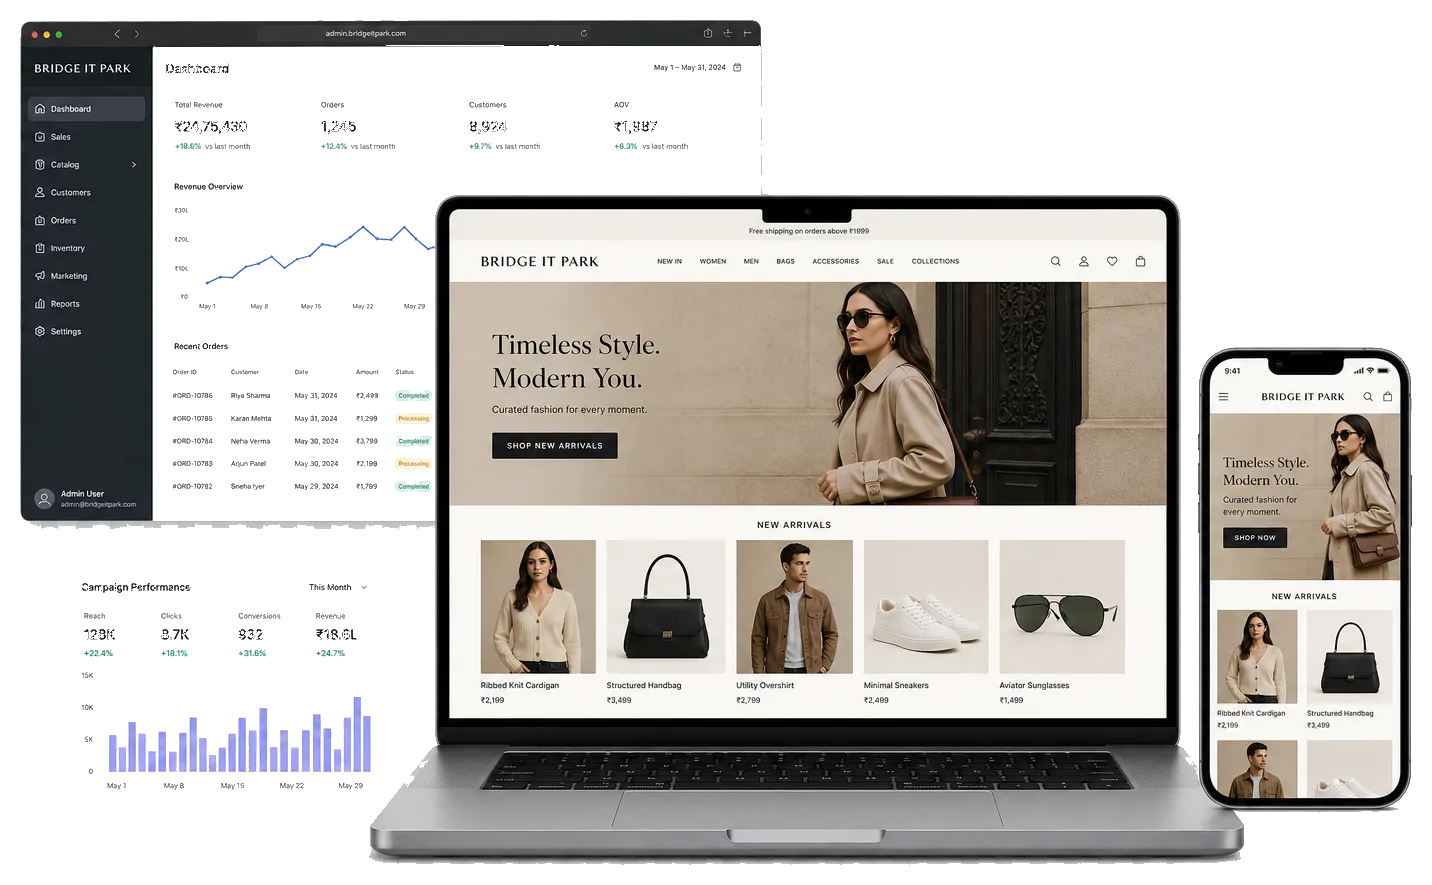
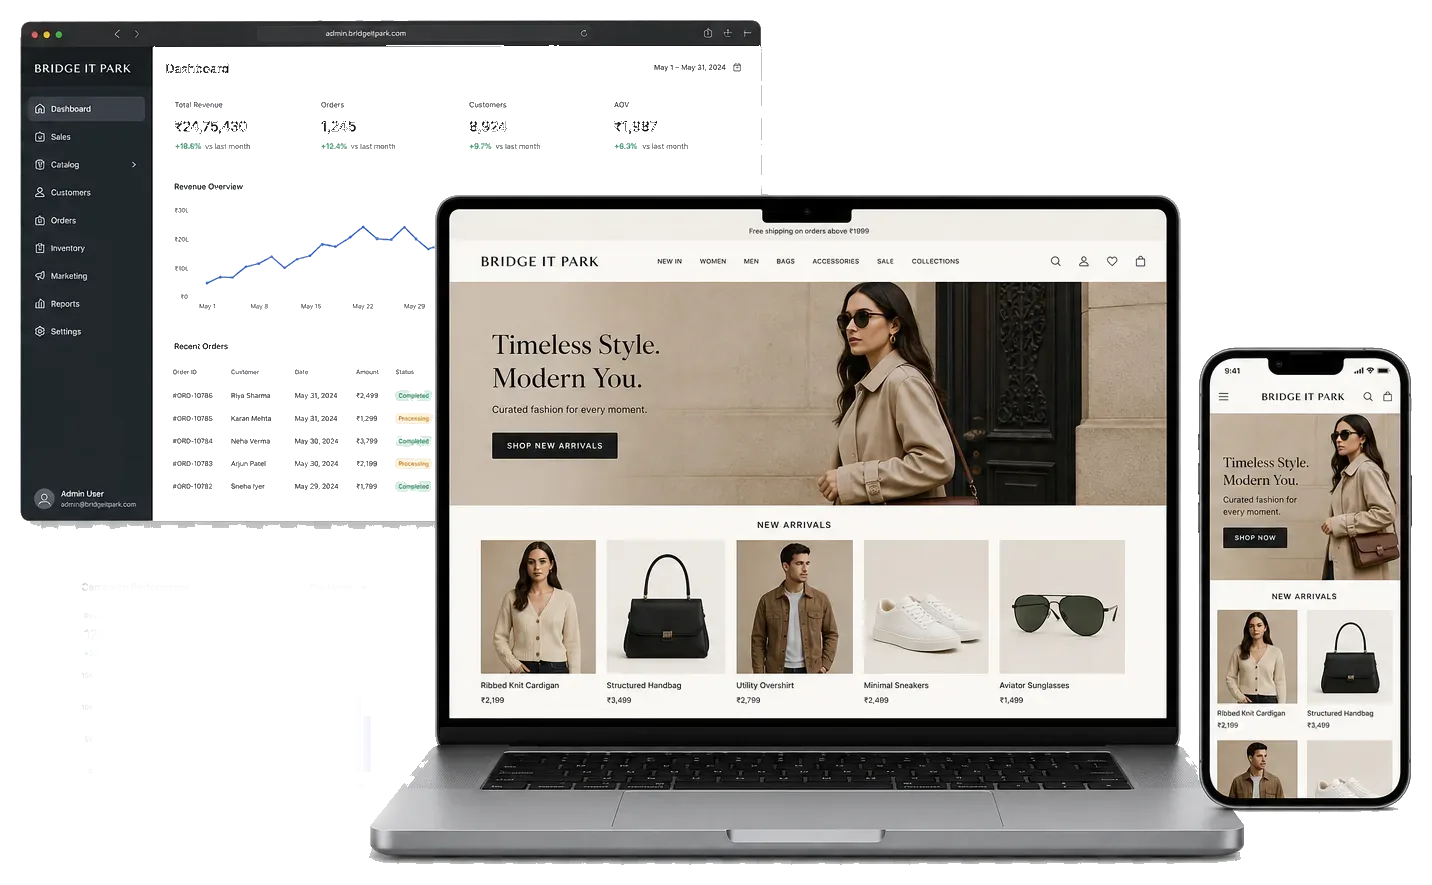
Update dark theme styles and enhance typography for improved accessibility
- Modified gradient backgrounds for dark theme elements in `globals.css` to ensure better contrast and visibility.
- Added new gradient styles for text elements in dark mode to enhance readability.
- Updated typography styles in `design-tokens.ts` to improve color contrast for headings and accents in dark mode.
- Adjusted `HeroContent.tsx` to apply dark theme text color for better visibility against dark backgrounds.
- Replaced the hero image with an updated version for improved visual appeal.

diff --git a/app/globals.css b/app/globals.css
@@ -309,15 +309,16 @@ body {
   background-clip: text;
 }
 
+/* Dark theme: darker ink → white so headings stay bright on dark hero */
 .dark .hero-solutions-wave {
   background-image: linear-gradient(
     90deg,
-    #93c5fd 0%,
-    #60a5fa 22%,
-    #38bdf8 48%,
-    #7dd3fc 68%,
-    #60a5fa 88%,
-    #93c5fd 100%
+    #1e3a8a 0%,
+    #1e40af 14%,
+    #334155 32%,
+    #94a3b8 52%,
+    #e2e8f0 72%,
+    #ffffff 100%
   );
 }
 
@@ -530,6 +531,13 @@ html[data-admin-route] body {
   background-clip: text;
 }
 
+.dark .gradient-text {
+  background: linear-gradient(135deg, #1e3a8a 0%, #64748b 45%, #f8fafc 78%, #ffffff 100%);
+  -webkit-background-clip: text;
+  -webkit-text-fill-color: transparent;
+  background-clip: text;
+}
+
 .gradient-text-gold {
   background: linear-gradient(135deg, #F59E0B, #FF6B6B, #EC4899);
   -webkit-background-clip: text;
@@ -537,8 +545,22 @@ html[data-admin-route] body {
   background-clip: text;
 }
 
+.dark .gradient-text-gold {
+  background: linear-gradient(135deg, #78350f 0%, #a8a29e 40%, #f5f5f4 75%, #ffffff 100%);
+  -webkit-background-clip: text;
+  -webkit-text-fill-color: transparent;
+  background-clip: text;
+}
+
 .gradient-text-warm {
   background: linear-gradient(135deg, #FF6B6B, #F59E0B, #EC4899);
+  -webkit-background-clip: text;
+  -webkit-text-fill-color: transparent;
+  background-clip: text;
+}
+
+.dark .gradient-text-warm {
+  background: linear-gradient(135deg, #7f1d1d 0%, #78716c 42%, #fafaf9 78%, #ffffff 100%);
   -webkit-background-clip: text;
   -webkit-text-fill-color: transparent;
   background-clip: text;

diff --git a/lib/styles/design-tokens.ts b/lib/styles/design-tokens.ts
@@ -15,13 +15,13 @@ export const heroTypography = {
   h1Line:
     'block font-display font-black tracking-tight leading-[1.08] text-[2rem] sm:text-[2.75rem] md:text-[3.5rem] lg:text-[4rem] xl:text-[4.5rem]',
   h1Ink: 'text-[#080B16] dark:text-white',
-  h1Accent: 'text-[#00A85A]',
+  h1Accent: 'text-[#00A85A] dark:text-emerald-300',
   h1Script:
-    'hero-script-line block text-[2.25rem] sm:text-[3rem] md:text-[3.75rem] lg:text-[4.25rem] xl:text-[4.75rem] text-[#0EA5E9] dark:text-sky-400 leading-[1.05]',
+    'hero-script-line block text-[2.25rem] sm:text-[3rem] md:text-[3.75rem] lg:text-[4.25rem] xl:text-[4.75rem] text-[#0EA5E9] dark:text-sky-200 leading-[1.05]',
   subtitle:
-    'mx-auto max-w-[600px] text-base sm:text-[17px] lg:text-lg text-[#4B5563] dark:text-slate-300 leading-relaxed',
+    'mx-auto max-w-[600px] text-base sm:text-[17px] lg:text-lg text-[#4B5563] dark:text-slate-200 leading-relaxed',
   eyebrow:
-    'inline-flex items-center gap-2 px-4 py-2 rounded-full bg-white/90 dark:bg-white/5 border border-slate-200/90 dark:border-white/15 shadow-sm text-sm font-semibold text-[#00A85A] dark:text-emerald-400',
+    'inline-flex items-center gap-2 px-4 py-2 rounded-full bg-white/90 dark:bg-white/5 border border-slate-200/90 dark:border-white/15 shadow-sm text-sm font-semibold text-[#00A85A] dark:text-emerald-300',
   /** Search results / marketplace search hero */
   searchHeading:
     'font-display font-black tracking-tight leading-[1.12] text-xl sm:text-2xl md:text-[1.625rem]',

diff --git a/components/home/hero/HeroContent.tsx b/components/home/hero/HeroContent.tsx
@@ -67,7 +67,7 @@ export function HeroContent({ className }: { className?: string }) {
         id="homepage-hero-heading"
         className="mt-3 max-w-[22rem] font-display font-extrabold tracking-[-0.03em] text-text-primary sm:mt-2.5 sm:max-w-none lg:max-w-none"
       >
-        <span className="block text-[clamp(1.55rem,5.2vw,1.85rem)] font-semibold leading-snug tracking-[-0.015em] text-text-secondary lg:text-[1.75rem]">
+        <span className="block text-[clamp(1.55rem,5.2vw,1.85rem)] font-semibold leading-snug tracking-[-0.015em] text-text-secondary dark:text-white/90 lg:text-[1.75rem]">
           Build Your Business with
         </span>
         <span className="hero-solutions-wave mt-2 block text-[clamp(2.25rem,8.5vw,2.85rem)] leading-[1.1] lg:mt-2 lg:text-[clamp(2.35rem,2.9vw,2.95rem)] lg:leading-[1.08]">
